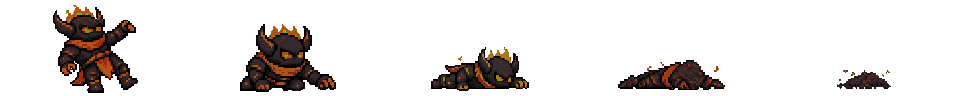
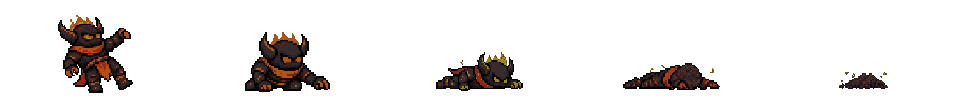
fix(grunt): reduce fire demon footprint

diff --git a/scripts/assets/rebuild_grunt_ember_fields_with_pillow.py b/scripts/assets/rebuild_grunt_ember_fields_with_pillow.py
@@ -108,12 +108,12 @@ def fit_to_frame(sprite: Image.Image, target_height: int, bottom_margin: int) ->
 
 def target_for(animation: str, index: int) -> tuple[int, int]:
     if animation == "death":
-        heights = [88, 68, 44, 30, 19]
+        heights = [78, 60, 39, 27, 17]
         margins = [3, 4, 5, 6, 7]
         return heights[index], margins[index]
     if animation == "attack":
-        return 88, 3
-    return 88, 3
+        return 80, 3
+    return 78, 3
 
 
 def write_frames(source: Image.Image) -> dict[str, list[Path]]:
